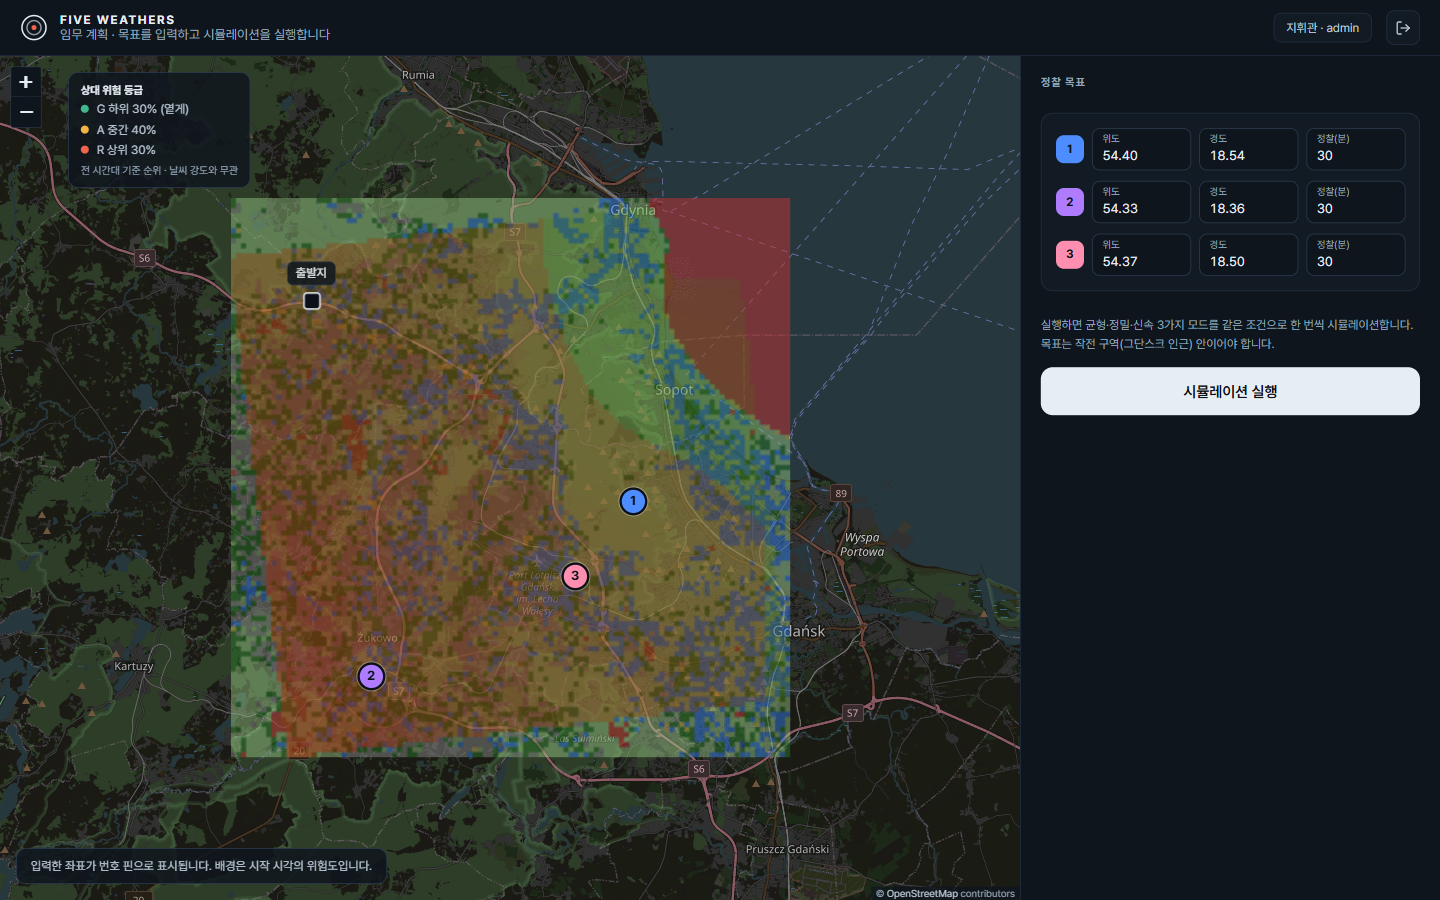
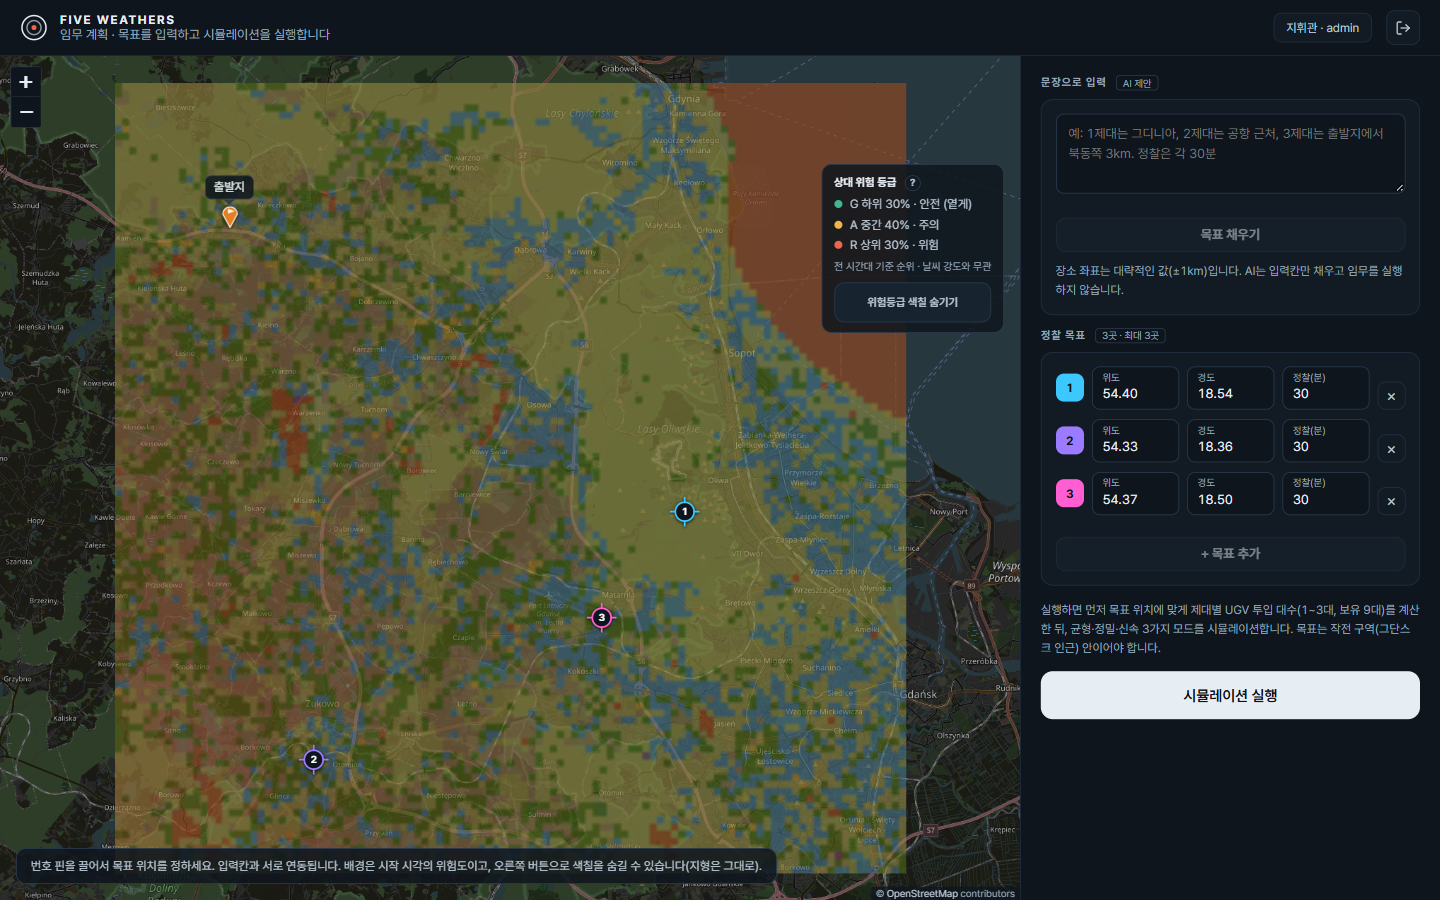
fix: 미리보기 지도 이미지가 401 이던 회귀 수정, 기상 지표 첫 로딩의 스레드 경합(500) 수정, README 캡처를 새 시나리오로 갱신
- run_id 가 있는 지도 API 에만 모드 접근 검사를 걸고 미리보기 이미지는 공개로 복원(회귀 테스트 추가)
- get_weather 에 락을 걸어 동시 첫 호출 KeyError 방지(동시성 테스트 추가)
- docs/img: 로그인, 목표 입력, 대시보드, AI 상황 보고(실제 Gemini), 기상 지도 재촬영

diff --git a/backend/app/weather/scenario_index.py b/backend/app/weather/scenario_index.py
@@ -22,6 +22,7 @@ from __future__ import annotations
 import os
 import shutil
 import tempfile
+import threading
 from datetime import datetime, timedelta
 from pathlib import Path
 
@@ -161,18 +162,26 @@ def open_era5(path: Path) -> xr.Dataset:
 
 
 _cache: dict[tuple, ScenarioWeather] = {}
+_lock = threading.Lock()
 
 
 def get_weather() -> ScenarioWeather:
-    """파일이 바뀌면(수정 시각) 다시 읽는다. 없거나 맞지 않으면 WeatherUnavailable."""
+    """파일이 바뀌면(수정 시각) 다시 읽는다. 없거나 맞지 않으면 WeatherUnavailable.
+
+    이미지 API 는 동기 함수라 스레드 풀에서 동시에 불린다 (브라우저가 다음 턴 이미지를 미리 요청한다). 락이 없으면 한 스레드가 캐시를 비우는 사이
+    다른 스레드가 키를 못 찾아 KeyError(500)가 난다 (실제로 났다).
+    """
     from app.simulation.shared_env import get_environment
 
     path = data_path()
     key = (str(path), path.stat().st_mtime_ns if path.exists() else None, utc_offset_h())
-    if key not in _cache:
-        _cache.clear()
-        start = get_environment().start_time
-        if start is None:
-            raise WeatherUnavailable("시나리오 시작 시각을 알 수 없습니다.")
-        _cache[key] = ScenarioWeather(open_era5(path), start, utc_offset_h(), source=f"ERA5-Land 0.1° 시간별 ({path.name})")
-    return _cache[key]
+    with _lock:
+        hit = _cache.get(key)
+        if hit is None:
+            start = get_environment().start_time
+            if start is None:
+                raise WeatherUnavailable("시나리오 시작 시각을 알 수 없습니다.")
+            hit = ScenarioWeather(open_era5(path), start, utc_offset_h(), source=f"ERA5-Land 0.1° 시간별 ({path.name})")
+            _cache.clear()
+            _cache[key] = hit
+        return hit

diff --git a/backend/app/api/tactical_map.py b/backend/app/api/tactical_map.py
@@ -33,7 +33,9 @@ from app.db.schemas.tactical_map import (
 )
 from app.services import tactical_map_service as svc
 
-router = APIRouter(tags=["tactical-map"], dependencies=[Depends(run_path_guard)])
+router = APIRouter(tags=["tactical-map"])
+# run_id 가 경로에 있는 API 만 모드 접근 검사를 건다. 미리보기(지형/위험도 이미지 등)는 <img> 가 인증 헤더를 보낼 수 없어 로그인 없이 열려 있어야 한다.
+RUN_GUARD = [Depends(run_path_guard)]
 
 CurrentUser = _CurrentUserDep  # TokenPayload (sub, role)
 
@@ -213,6 +215,7 @@ async def get_leaflet_html(
 
 @router.get(
     "/runs/{run_id}/map/base",
+    dependencies=RUN_GUARD,
     response_model=MapBaseOut,
     summary="정적 기반 레이어 조회",
 )
@@ -227,6 +230,7 @@ async def get_map_base(run_id: int, current_user: CurrentUser):
 
 @router.get(
     "/runs/{run_id}/map/layer",
+    dependencies=RUN_GUARD,
     response_model=MapLayerOut,
     summary="동적 레이어 조회 (위험도/기동성/센서)",
 )
@@ -245,6 +249,7 @@ async def get_map_layer(
 
 @router.get(
     "/runs/{run_id}/map/commander",
+    dependencies=RUN_GUARD,
     response_model=CommanderMapOut,
     summary="지휘관용 통합 맵 (모든 제대 경로 포함)",
 )
@@ -261,6 +266,7 @@ async def get_commander_map(run_id: int, current_user: CurrentUser):
 
 @router.get(
     "/runs/{run_id}/map/operator",
+    dependencies=RUN_GUARD,
     response_model=OperatorMapOut,
     summary="통제관용 통합 맵 (자기 제대 경로만 포함)",
 )

diff --git a/backend/app/tests/test_weather_index.py b/backend/app/tests/test_weather_index.py
@@ -151,3 +151,26 @@ async def test_data_that_does_not_cover_the_scenario_time_is_reported_not_extrap
     assert info["available"] is False and "덮지 않습니다" in info["reason"]
     assert (await client.get("/api/map/weather/0.png")).status_code == 404
     si._cache.clear()
+
+
+def test_concurrent_first_loads_do_not_race_on_the_cache(monkeypatch, tmp_path):
+    """브라우저가 여러 턴의 이미지를 동시에 요청해도 첫 로딩에서 KeyError 가 나지 않는다 (500 이 실제로 났다)."""
+    import threading
+
+    path = tmp_path / "era5.nc"
+    era5([0.0] * 12, first_hour="2022-08-20T20:00").to_netcdf(path)
+    monkeypatch.setenv("WEATHER_ERA5_PATH", str(path))
+    si._cache.clear()
+    errors, got = [], []
+
+    def worker():
+        try:
+            got.append(si.get_weather())
+        except Exception as exc:  # noqa: BLE001
+            errors.append(repr(exc))
+
+    threads = [threading.Thread(target=worker) for _ in range(8)]
+    [t.start() for t in threads]
+    [t.join() for t in threads]
+    si._cache.clear()
+    assert not errors and len(got) == 8 and all(g is got[0] for g in got)          # 한 번만 읽고 같은 객체를 돌려준다

diff --git a/backend/app/tests/test_team_modes.py b/backend/app/tests/test_team_modes.py
@@ -228,3 +228,12 @@ async def test_operator_sitrep_for_an_unassigned_mode_is_refused(login_as, missi
     user1 = await login_as("user1")
     resp = await user1.post("/api/assistant/sitrep", json={"mode": "rapid"})
     assert resp.status_code == 403, resp.text            # AI 키가 없어도(503) 모드 검사가 먼저다
+
+
+@pytest.mark.asyncio
+async def test_preview_map_images_stay_public_because_img_tags_cannot_send_tokens(client: AsyncClient):
+    """모드 접근 검사를 run_id 가 없는 미리보기 API 에까지 걸면 목표 입력 화면의 지형/위험도 이미지가 401 로 깨진다 (실제로 한 번 그랬다)."""
+    for path in ("/api/map/tactical/terrain-image", "/api/map/tactical/cost-image?layer=risk", "/api/map/tactical/bounds",
+                 "/api/map/overlay/total/0.png", "/api/map/weather/info"):
+        r = await client.get(path)
+        assert r.status_code == 200, (path, r.status_code)

diff --git a/README.md b/README.md
@@ -40,6 +40,8 @@
 
 ![AI 상황 보고](docs/img/ai.png)
 
+![기상 악영향 지도](docs/img/weather.png)
+
 - **편성 탭**(지휘관): 모드별 추천 편성(예: 2-2-2)과 후보 전체(목표 3곳이면 27가지)의 도착률·수색·작전 시간·운용자 부하를 표로 비교합니다. 목표를 바꿔 다시 실행하면 편성도 다시 계산됩니다(직접 입력한 목표는 약 1분, 기본 목표는 저장된 결과).
 - **지도 표시 "기상"**: 비, 안개 가능성, 토양수분, 바람을 하나(0~1)로 합친 "기상 악영향" 추정 지표입니다. 위험도의 85~95%는 지형 같은 고정분이라 위험도 색만으로는 날씨가 잘 안 보이기 때문에 따로 둡니다. **원시 기상(ERA5)은 월별 파일이 2018~2022년뿐이라 시나리오 날짜(2023-06-30)는 `scripts/download_era5_scenario.py`로 따로 받아 둡니다(CDS 계정 필요, 파일은 git 제외). 파일이 없으면 "표시할 수 없음"과 이유만 보입니다. 받은 자료는 시나리오 구간이 비 없는 잔잔한 밤이고 위험도의 시간 변화와 상관이 약해(0.38), 같은 날씨인지는 확인되지 않았습니다.** 가정과 한계, 자료 받는 법은 [docs/weather_index.md](docs/weather_index.md).
 - **목표 입력**: 정찰 목표를 **1~3곳** 정하고("+ 목표 추가"/"×"로 늘리고 줄입니다) 좌표와 정찰 시간을 입력합니다(**목표 1은 1제대, 목표 2는 2제대, 목표 3은 3제대가 맡습니다**). 지도의 번호 핀을 **끌어서** 위치를 정해도 되고(입력칸과 서로 연동, 작전 구역 밖으로 끌면 되돌립니다), 위경도를 직접 쓰거나 "1제대는 그디니아, 2제대는 공항 근처"처럼 **문장으로 입력하면 AI가 입력칸을 채워 줍니다**(확정은 사람이 합니다). 목표가 3곳보다 적으면 그 수만큼의 제대만 출동하고(제대당 UGV 최대 3대) 나머지 UGV와 제대는 쉽니다. 쉬는 제대의 통제관은 "배정 없음"을 봅니다. 지도 오른쪽의 "?"는 G·A·R 등급 설명이고, 버튼으로 위험등급 색칠을 숨길 수 있습니다. "시뮬레이션 실행"을 누르면, 서버가 균형·정밀·신속 3개 모드를 같은 조건으로 실행합니다(약 40초).
